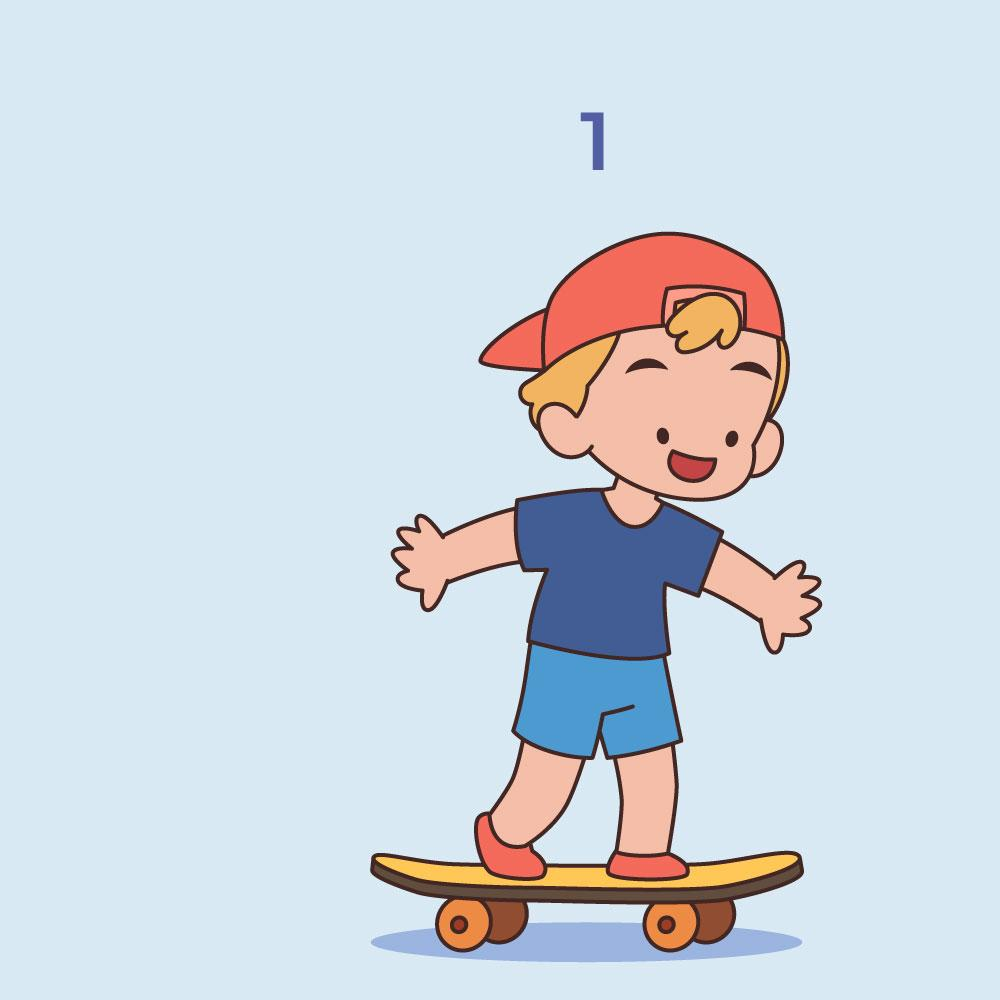
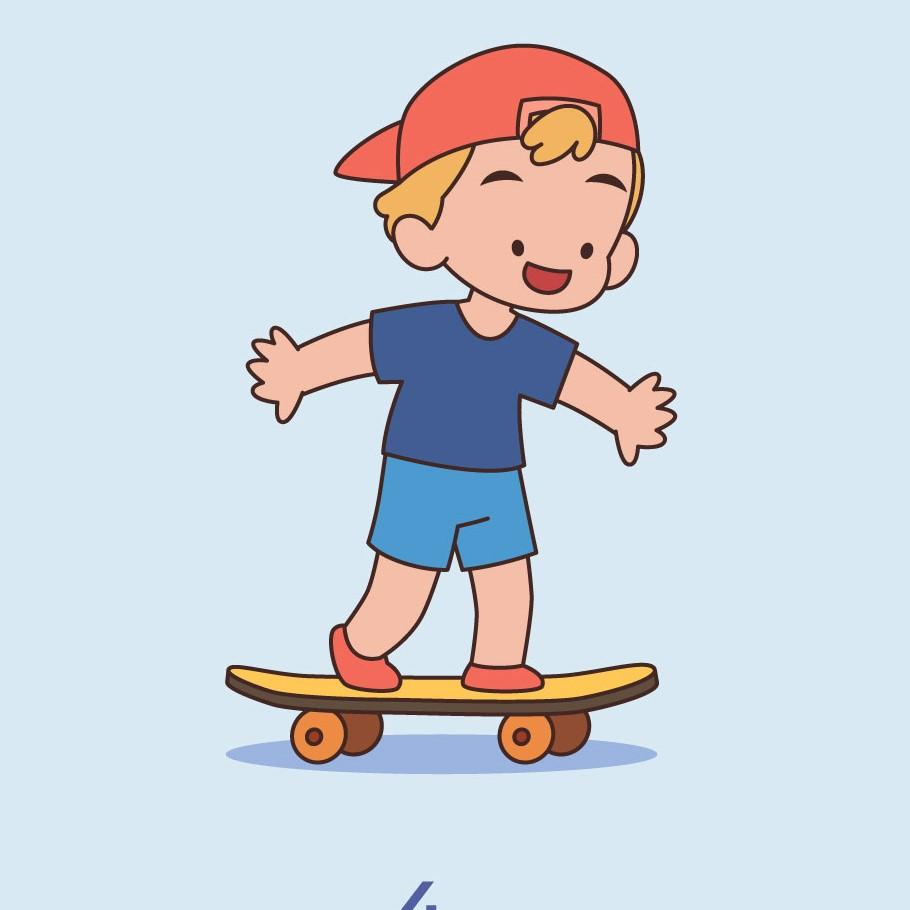
add create_gif

Changed region(s): [[0.2462, 0.0308, 0.8308, 1.0]]

diff --git a/create_gif.py b/create_gif.py
@@ -1,0 +1,30 @@
+import os 
+from PIL import Image
+
+# open cropped_images folder and append the images in a list
+cropped_image_folder = "cropped_images"
+images = []
+for fileName in os.listdir(cropped_image_folder):
+    image_path = os.path.join(cropped_image_folder, fileName)
+    image = Image.open(image_path)
+    images.append(image)
+
+# set a output gif folder
+gif_folder = "created_gif"
+if not os.path.exists(gif_folder):
+    os.makedirs(gif_folder)
+
+gif_save_name = "firstGif.gif"
+gif_save_path = os.path.join(gif_folder, gif_save_name)
+
+
+# create gif
+images[0].save(
+    gif_save_path,
+    save_all=True,
+    append_images=images[1:],
+    duration=100,
+    loop=0
+)
+
+print("Gif created successfully")

diff --git a/crop_image.py b/crop_image.py
@@ -15,8 +15,8 @@ image = Image.open("original_image.jpg")
 width, height = image.size
 
 # Define the dimensions for the cropped images
-crop_image_width = 1000
-crop_image_height = 1000
+crop_image_width = 910
+crop_image_height = 910
 
 # Crop image and save it
 for left in range(0, width, crop_image_width):
